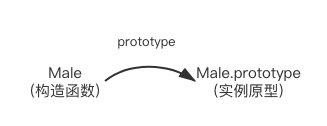
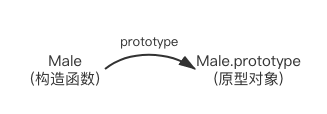
Site updated: 2020-12-09 17:58:29

Changed region(s): [[0.0917, 0.4474, 0.9174, 0.7895], [0.3364, 0.2895, 0.5505, 0.4211]]

diff --git a/prototype/index.html b/prototype/index.html
@@ -93,7 +93,7 @@
 <meta property="og:image" content="https://zhuchuanlei.github.io/image/prototype/4.png">
 <meta property="og:image" content="https://zhuchuanlei.github.io/image/prototype/5.png">
 <meta property="og:image" content="https://zhuchuanlei.github.io/image/prototype/6.png">
-<meta property="og:updated_time" content="2020-12-08T09:58:16.324Z">
+<meta property="og:updated_time" content="2020-12-09T09:42:32.375Z">
 <meta name="twitter:card" content="summary">
 <meta name="twitter:title" content="原型 原型链">
 <meta name="twitter:description" content="原型和原型链的简单梳理，prototype、__proto__和constructor的三角关系">
@@ -327,16 +327,16 @@
 
 <h2 id="原型"><a href="#原型" class="headerlink" title="原型"></a>原型</h2><h3 id="prototype"><a href="#prototype" class="headerlink" title="prototype"></a>prototype</h3><p>看第4行代码<code>Male.prototype.sex = &quot;男&quot;;</code>，函数<code>Male</code>有个<code>prototype</code>对象属性，并且可以给其赋值。</p>
 <ol>
-<li><code>Javascript</code>中，每一个函数都有一个<code>prototype</code>对象属性，指向的是另一个对象，这个对象叫它<code>实例原型</code>。</li>
-<li><code>实例原型</code>中的所有属性和方法，都会被构造函数的实例所继承，如<code>sex</code>属性。所以会把不变的属性和方法，放在<code>实例原型</code>中。</li>
+<li><code>Javascript</code>中，每一个函数都有一个<code>prototype</code>对象属性，指向的是另一个对象，这个对象叫它<code>原型对象</code>。</li>
+<li><code>原型对象</code>中的所有属性和方法，都会被构造函数的实例所继承，如<code>sex</code>属性。所以会把不变的属性和方法，放在<code>原型对象</code>中。</li>
 </ol>
-<p>构造函数和实例原型之间的关系：</p>
+<p>构造函数和原型对象之间的关系：</p>
 <p><img src="../image/prototype/1.png" alt></p>
 <h3 id="proto"><a href="#proto" class="headerlink" title="__proto__"></a>__proto__</h3><p>打印<code>ZS</code>的时候，你会看到，它不仅仅只有<code>name</code>属性，还有<code>__proto__</code>属性。这是一个隐式属性</p>
 <img src="../image/prototype/2.png" width="220">
 
 <ol start="3">
-<li>每一个对象(null除外)都会有这个属性<code>__proto__</code>，它指向的是<code>实例原型</code>。</li>
+<li>每一个对象(null除外)都会有这个属性<code>__proto__</code>，它指向的是<code>原型对象</code>。</li>
 <li>执行<code>ZS.__proto__</code>相当于执行<code>Object.getPrototypeOf(ZS)</code>。</li>
 </ol>
 <figure class="highlight js"><table><tr><td class="gutter"><pre><span class="line">1</span><br></pre></td><td class="code"><pre><span class="line"><span class="built_in">console</span>.log(ZS.__proto__ === Male.prototype);  <span class="comment">// true</span></span><br></pre></td></tr></table></figure>
@@ -359,7 +359,7 @@
 <li>查找<code>ZS</code>的原型<code>ZS.__proto__</code>的属性，查到了<code>sex</code>属性，返回。</li>
 </ul>
 <p>等等。。。那如果<code>ZS.__proto__</code>也没有查到该属性，那<code>ZS.__proto__</code>的原型又是什么呢？</p>
-<h2 id="原型的原型"><a href="#原型的原型" class="headerlink" title="原型的原型"></a>原型的原型</h2><p>正如第3条所说的，每个对象都有原型。<code>ZS.__proto__</code>是一个对象，是通过构造函数<code>Object</code>创建的，那么<code>ZS.__proto__</code>的原型就是<code>Object</code>的实例原型。如下:</p>
+<h2 id="原型的原型"><a href="#原型的原型" class="headerlink" title="原型的原型"></a>原型的原型</h2><p>正如第3条所说的，每个对象都有原型。<code>ZS.__proto__</code>是一个对象，是通过构造函数<code>Object</code>创建的，那么<code>ZS.__proto__</code>的原型就是<code>Object</code>的原型对象。如下:</p>
 <figure class="highlight js"><table><tr><td class="gutter"><pre><span class="line">1</span><br></pre></td><td class="code"><pre><span class="line"><span class="built_in">console</span>.log(ZS.__proto__.__proto__ === <span class="built_in">Object</span>.prototype); <span class="comment">// true</span></span><br></pre></td></tr></table></figure>
 
 <p><img src="../image/prototype/5.png" alt></p>
@@ -367,7 +367,7 @@
 <p>除了null之外，对象都有原型，且对象的原型也是个对象，那么就有对象的原型的原型…一直到没有原型即null，正如上图中蓝色线条，就是一条原型链。</p>
 <h2 id="总结"><a href="#总结" class="headerlink" title="总结"></a>总结</h2><ol>
 <li>对象都有原型(null除外)，原型是个对象</li>
-<li>对象的<strong>proto</strong>指向对应的原型，原型的constructor指向对应的构造函数，构造函数的prototype指向该实例的原型</li>
+<li>对象的<strong>proto</strong>指向对应的原型，原型的constructor指向对应的构造函数，构造函数的prototype指向对应实例的原型对象</li>
 <li>读取对象的属性时，从本身属性到一层一层的原型往上找，直到null。找到了即返回，找不到返回undefined</li>
 </ol>
 <h3 id="小试牛刀"><a href="#小试牛刀" class="headerlink" title="小试牛刀"></a>小试牛刀</h3><figure class="highlight js"><table><tr><td class="gutter"><pre><span class="line">1</span><br><span class="line">2</span><br><span class="line">3</span><br><span class="line">4</span><br><span class="line">5</span><br></pre></td><td class="code"><pre><span class="line">ZS.__proto__ === Male.prototype  <span class="comment">// true</span></span><br><span class="line">ZS.__proto__.__proto__ === <span class="built_in">Object</span>.prototype;  <span class="comment">// true</span></span><br><span class="line">ZS.__proto__.constructor === ZS.constructor === Male.prototype.constructor === Male  <span class="comment">// true</span></span><br><span class="line">Male.__proto__ === <span class="built_in">Function</span>.prototype  <span class="comment">// true</span></span><br><span class="line">ZS.prototype.constructor  <span class="comment">// Uncaught TypeError: Cannot read property 'constructor' of undefined</span></span><br></pre></td></tr></table></figure>

diff --git a/css/main.css b/css/main.css
@@ -1822,7 +1822,7 @@ pre .javascript .function {
   width: 4px;
   height: 4px;
   border-radius: 50%;
-  background: #08ffff;
+  background: #415720;
 }
 .links-of-blogroll {
   font-size: 13px;
